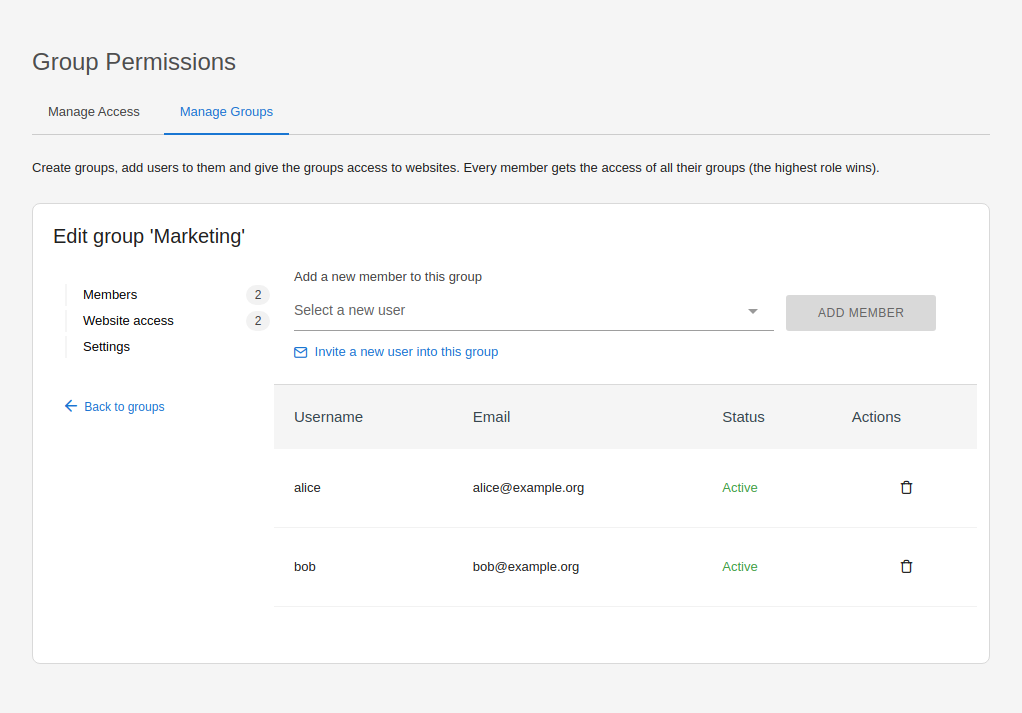
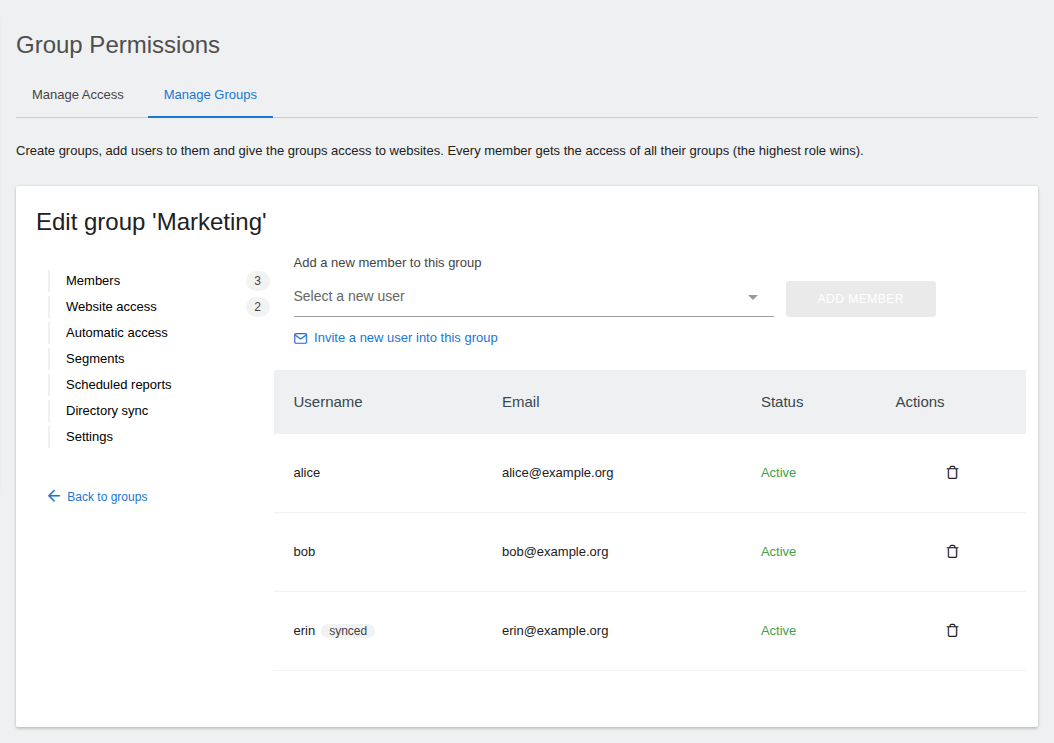
Update marketplace screenshots

diff --git a/tests/e2e/playwright.screenshots.config.ts b/tests/e2e/playwright.screenshots.config.ts
@@ -1,0 +1,13 @@
+import { defineConfig } from '@playwright/test';
+import baseConfig from './playwright.config';
+
+/**
+ * Screenshots for the Matomo Marketplace, run by bin/marketplace-screenshots.sh.
+ */
+export default defineConfig({
+  ...baseConfig,
+  testDir: './specs-screenshots',
+  retries: 0,
+  reporter: [['list']],
+  outputDir: 'test-results-screenshots',
+});

diff --git a/tests/e2e/README.md b/tests/e2e/README.md
@@ -14,6 +14,7 @@ tests/e2e/bin/run.sh                           # fresh Matomo, all specs
 tests/e2e/bin/run.sh specs/invite-user.spec.ts # a single spec (extra args go to `playwright test`)
 tests/e2e/bin/integration-test.sh              # only the login plugin integration specs (Matomo must be running)
 KEEP_ENV=1 tests/e2e/bin/run.sh                # reuse the running instance (faster)
+tests/e2e/bin/marketplace-screenshots.sh       # regenerate the Marketplace screenshots in the plugin's screenshots/
 ```
 
 Results:
@@ -50,6 +51,7 @@ The database lives on tmpfs, so `teardown.sh` discards all data.
 | `bin/setup.sh` | starts the containers, copies the plugin, installs Matomo, activates the plugin |
 | `bin/lifecycle-test.sh` | deactivate / activate / uninstall / reinstall checks (run by `run.sh` after a full run) |
 | `bin/integration-test.sh` | group sync with the login plugins LoginLdap, LoginOIDC, RebelOIDC and LoginSaml (run by `run.sh` after a full run, skip with `INTEGRATIONS=0`): starts OpenLDAP, a mock OpenID Connect provider and SimpleSAMLphp (profile `integrations`), installs the pinned plugin releases, runs `specs-integrations/` and removes the plugins again. LoginSaml is paid and cannot be downloaded: its specs only run with a licensed copy for Matomo 5 in `LOGINSAML_DIR` (default `tmp/5.5.11/LoginSaml`, git-ignored, never commit it) |
+| `bin/marketplace-screenshots.sh`, `specs-screenshots/`, `playwright.screenshots.config.ts` | Marketplace screenshots (`screenshots/`, file name = caption) from the demo data of `start.sh` plus segments, reports, rules, capabilities and directory groups added by the spec |
 | `saml/authsources.php` | users and group attributes of the SAML identity provider |
 | `specs-integrations/`, `playwright.integrations.config.ts` | specs needing the login plugins |
 | `global-setup.ts` | logs in the super user once and stores the session |
@@ -64,6 +66,7 @@ The database lives on tmpfs, so `teardown.sh` discards all data.
 | `specs/segments.spec.ts` | sharing segments with groups: visibility for members, permissions, cleanup, group editor |
 | `specs/scheduled-reports.spec.ts` | shared ownership of scheduled reports: members view/edit/send/delete, permissions, request cache, cleanup, UI |
 | `specs/special-characters.spec.ts` | group names with HTML, quotes, `&`, unicode: stored as-is, rendered as text (no XSS) |
+| `specs/tracking.spec.ts` | tracking requests with the token_auth of group members (write/admin through a group) |
 | `specs/translations.spec.ts` | all used translation keys exist and are registered, placeholders match, German UI has no raw keys |
 | `specs/overview.spec.ts` | menu entry, main group workflow, overview screenshots |
 | `specs/page-access.spec.ts` | who can open the admin page and what they see |

diff --git a/README.md b/README.md
@@ -244,6 +244,7 @@ A Docker based Matomo test instance and Playwright end-to-end tests live in `tes
 ```bash
 tests/e2e/bin/start.sh      # Matomo with the plugin and demo data on http://localhost:8089
 tests/e2e/bin/run.sh        # run all tests in docker, screenshots end up in tests/e2e/screenshots
+tests/e2e/bin/marketplace-screenshots.sh  # regenerate the Marketplace screenshots in screenshots/
 tests/e2e/bin/teardown.sh   # stop everything
 ```
 
